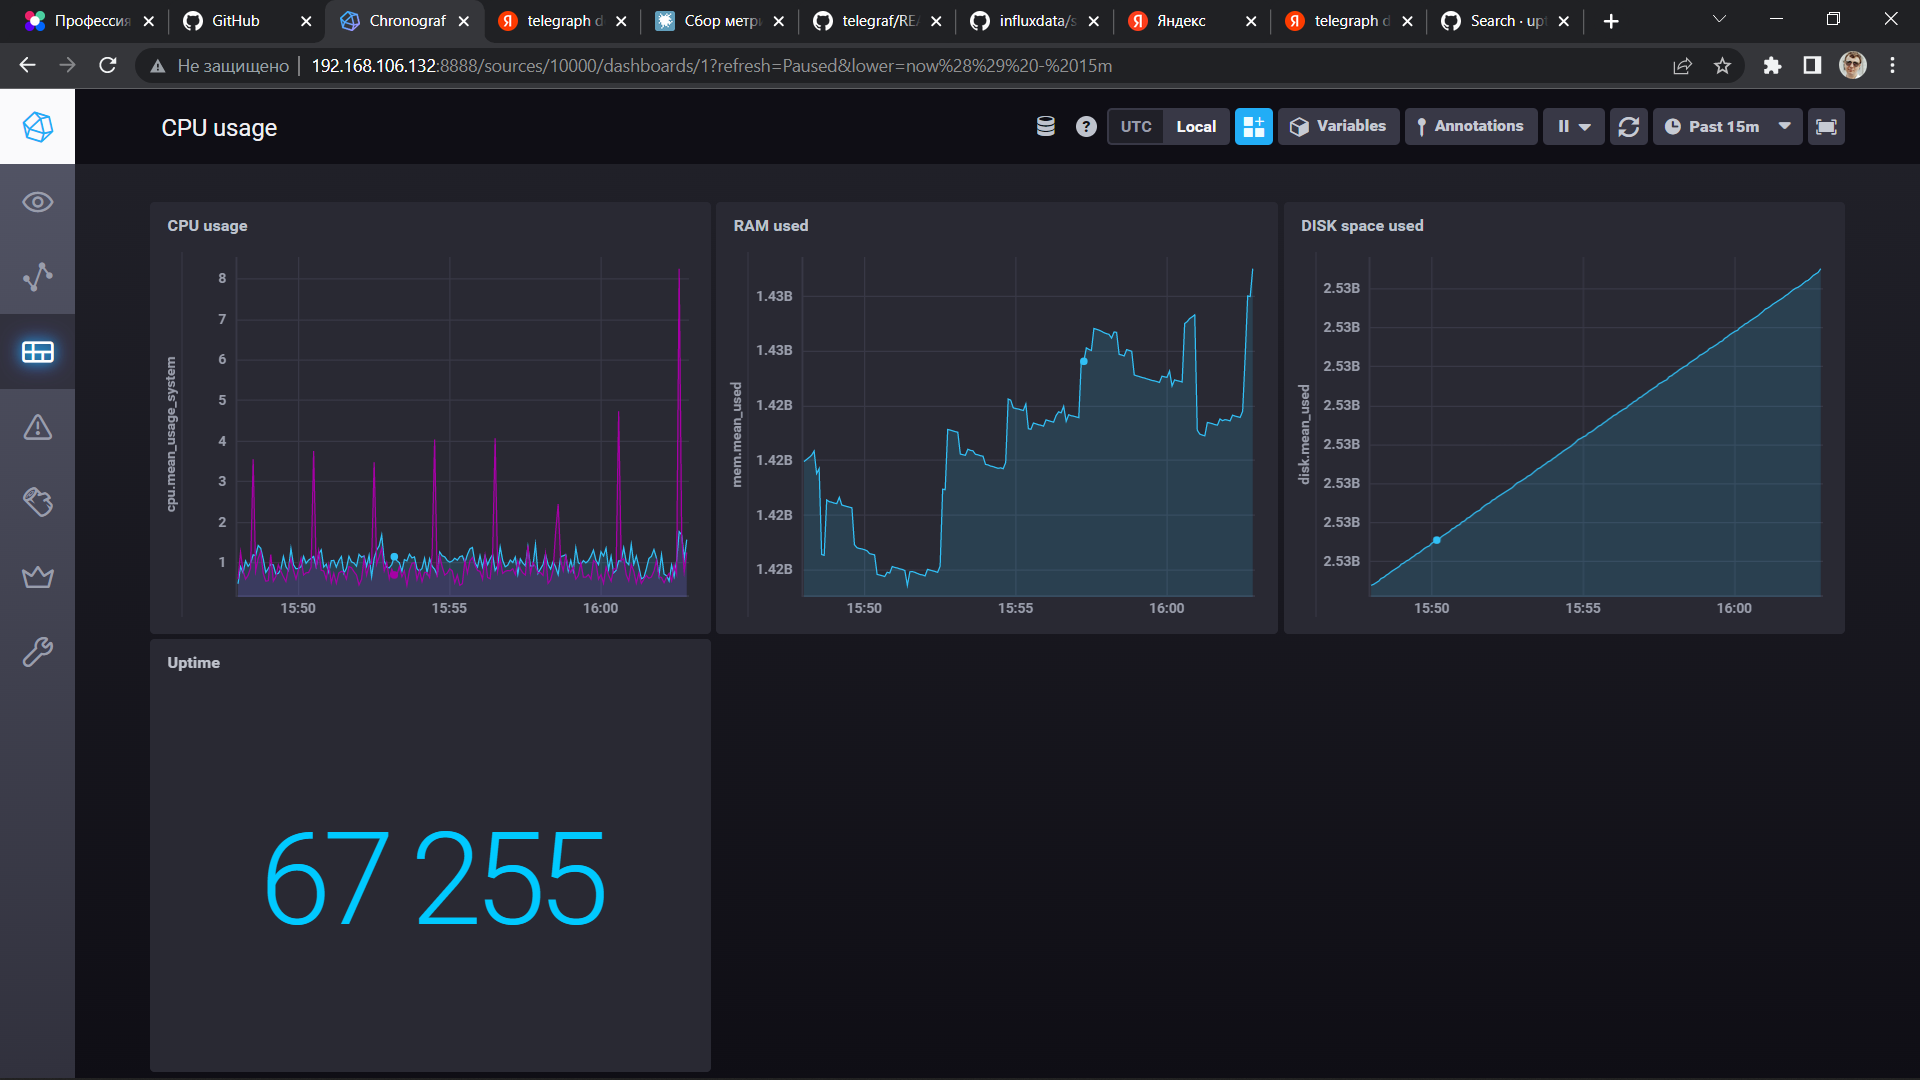
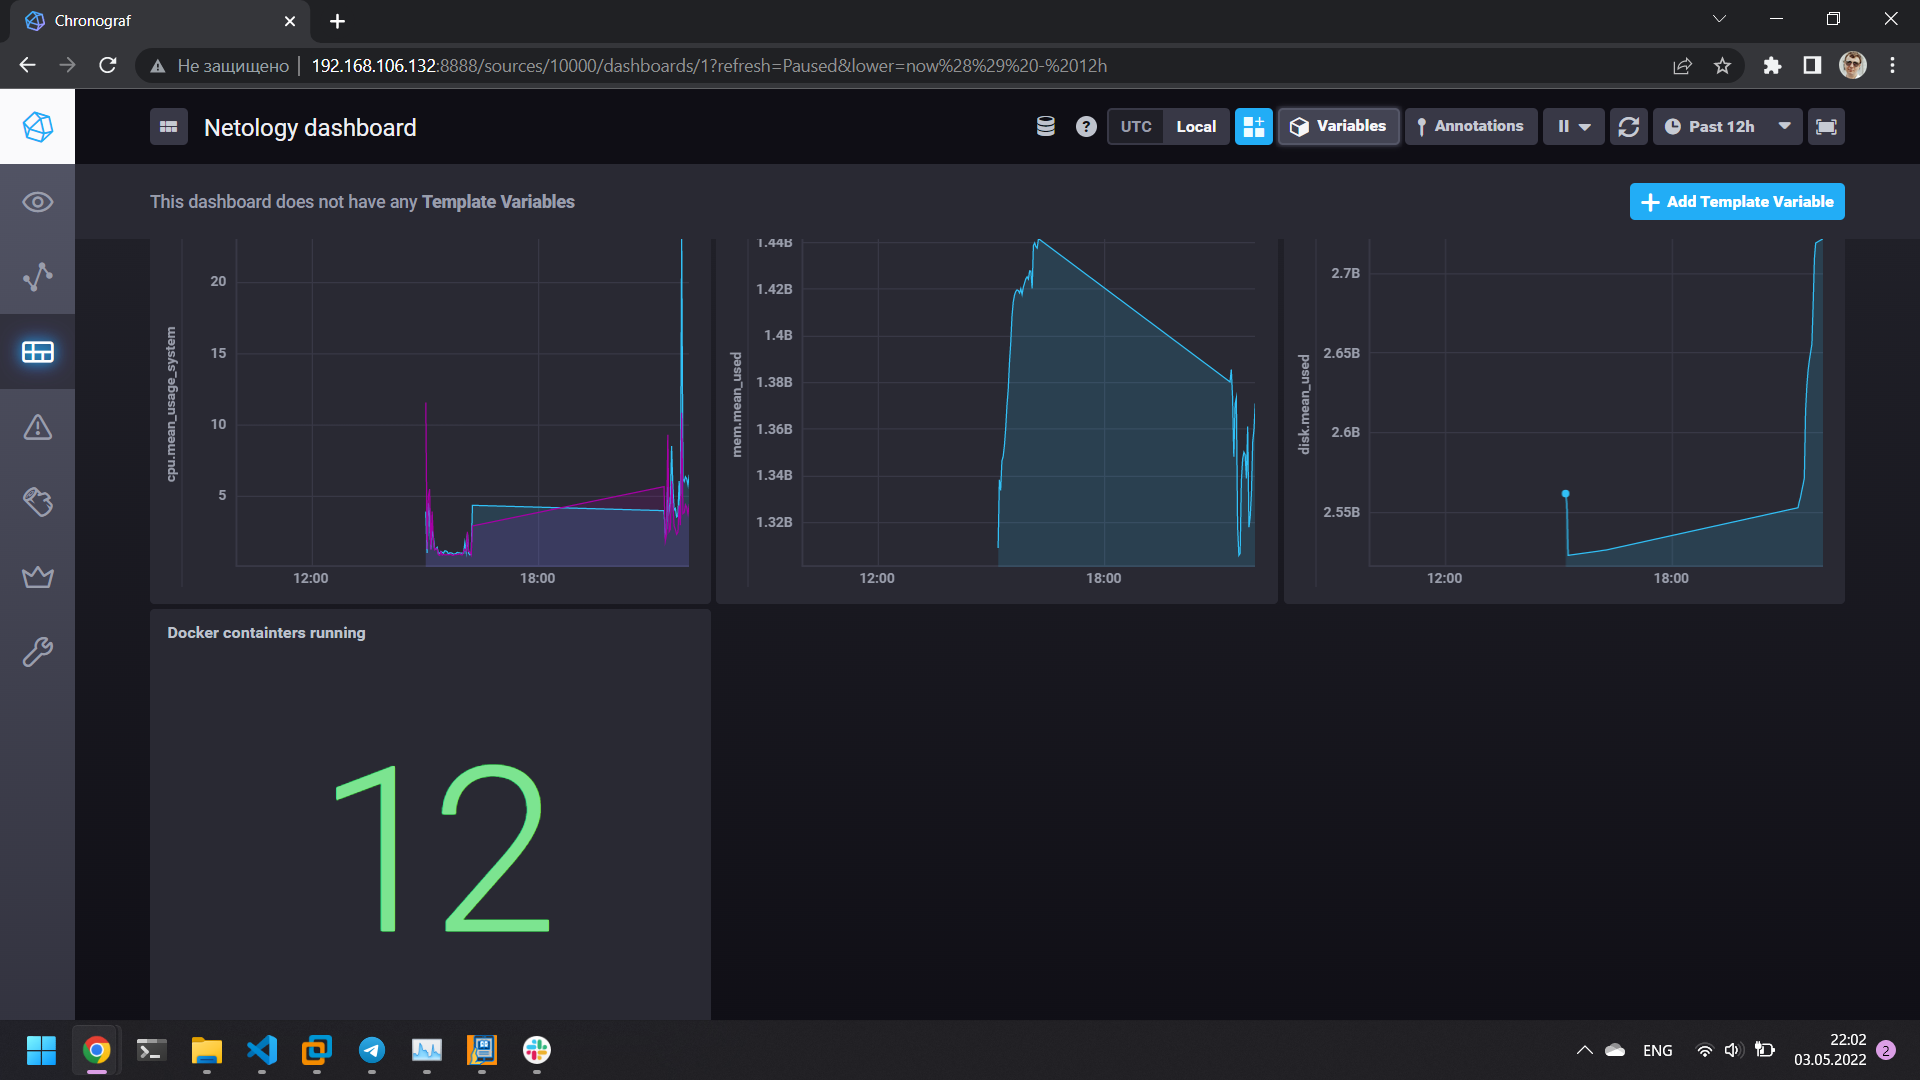
[10-monitoring-02-systems] Done

diff --git a/10-monitoring-02-systems/README copy.md b/10-monitoring-02-systems/README copy.md
@@ -1,0 +1,116 @@
+# Домашнее задание к занятию "10.02. Системы мониторинга"
+
+## Ответы
+1. 
+- Push: Отправка метрик на несколько серверов; возможность использования UDP; Гибкая настройка отправляемых метрик с каждого агента 
+- Pull: Возможность выбора хостов для опроса; Возможность использования плокси-серверов для центелизации сбора из закрытоых сегментов сети
+2. 
+- Push: TICK; 
+- Pull: Prometheus
+- Hybrid: Zabbix
+3. 
+<p align="center">
+  <img width="1200" height="600" alt="Скриншот" title="Скриншот" src="./03.png">
+</p>
+
+4. 3. 
+<p align="center">
+  <img width="1200" height="600" alt="Скриншот" title="Скриншот" src="./10-monitoring-02-systems.04.png">
+</p>
+
+5. Мне не удалось добиться того, чтобы отображались метрики контейнеров
+    - [telegraf.conf](./telegraf.conf)
+    - [docker-compose.yml](./docker-compose.yml)
+6.
+<p align="center">
+  <img width="1200" height="600" alt="Скриншот" title="Скриншот" src="./10-monitoring-02-systems.06.png">
+</p>5
+
+
+## Обязательные задания
+
+1. Опишите основные плюсы и минусы pull и push систем мониторинга.
+
+2. Какие из ниже перечисленных систем относятся к push модели, а какие к pull? А может есть гибридные?
+
+    - Prometheus 
+    - TICK
+    - Zabbix
+    - VictoriaMetrics
+    - Nagios
+
+3. Склонируйте себе [репозиторий](https://github.com/influxdata/sandbox/tree/master) и запустите TICK-стэк, 
+используя технологии docker и docker-compose.
+
+В виде решения на это упражнение приведите выводы команд с вашего компьютера (виртуальной машины):
+
+    - curl http://localhost:8086/ping
+    - curl http://localhost:8888
+    - curl http://localhost:9092/kapacitor/v1/ping
+
+А также скриншот веб-интерфейса ПО chronograf (`http://localhost:8888`). 
+
+P.S.: если при запуске некоторые контейнеры будут падать с ошибкой - проставьте им режим `Z`, например
+`./data:/var/lib:Z`
+
+4. Перейдите в веб-интерфейс Chronograf (`http://localhost:8888`) и откройте вкладку `Data explorer`.
+
+    - Нажмите на кнопку `Add a query`
+    - Изучите вывод интерфейса и выберите БД `telegraf.autogen`
+    - В `measurments` выберите mem->host->telegraf_container_id , а в `fields` выберите used_percent. 
+    Внизу появится график утилизации оперативной памяти в контейнере telegraf.
+    - Вверху вы можете увидеть запрос, аналогичный SQL-синтаксису. 
+    Поэкспериментируйте с запросом, попробуйте изменить группировку и интервал наблюдений.
+
+Для выполнения задания приведите скриншот с отображением метрик утилизации места на диске 
+(disk->host->telegraf_container_id) из веб-интерфейса.
+
+5. Изучите список [telegraf inputs](https://github.com/influxdata/telegraf/tree/master/plugins/inputs). 
+Добавьте в конфигурацию telegraf следующий плагин - [docker](https://github.com/influxdata/telegraf/tree/master/plugins/inputs/docker):
+```yaml
+[[inputs.docker]]
+  endpoint = "unix:///var/run/docker.sock"
+```
+
+Дополнительно вам может потребоваться донастройка контейнера telegraf в `docker-compose.yml` дополнительного volume и 
+режима privileged:
+```yaml
+  telegraf:
+    image: telegraf:1.4.0   
+    privileged: true
+    volumes:
+      - ./etc/telegraf.conf:/etc/telegraf/telegraf.conf:Z
+      - /var/run/docker.sock:/var/run/docker.sock:Z
+    links:
+      - influxdb
+    ports:
+      - "8092:8092/udp"
+      - "8094:8094"
+      - "8125:8125/udp"
+```
+
+После настройке перезапустите telegraf, обновите веб интерфейс и приведите скриншотом список `measurments` в 
+веб-интерфейсе базы telegraf.autogen . Там должны появиться метрики, связанные с docker.
+
+Факультативно можете изучить какие метрики собирает telegraf после выполнения данного задания.
+
+## Дополнительное задание (со звездочкой*) - необязательно к выполнению
+
+В веб-интерфейсе откройте вкладку `Dashboards`. Попробуйте создать свой dashboard с отображением:
+
+    - утилизации ЦПУ
+    - количества использованного RAM
+    - утилизации пространства на дисках
+    - количество поднятых контейнеров
+    - аптайм
+    - ...
+    - фантазируйте)
+    
+    ---
+
+### Как оформить ДЗ?
+
+Выполненное домашнее задание пришлите ссылкой на .md-файл в вашем репозитории.
+
+---
+
